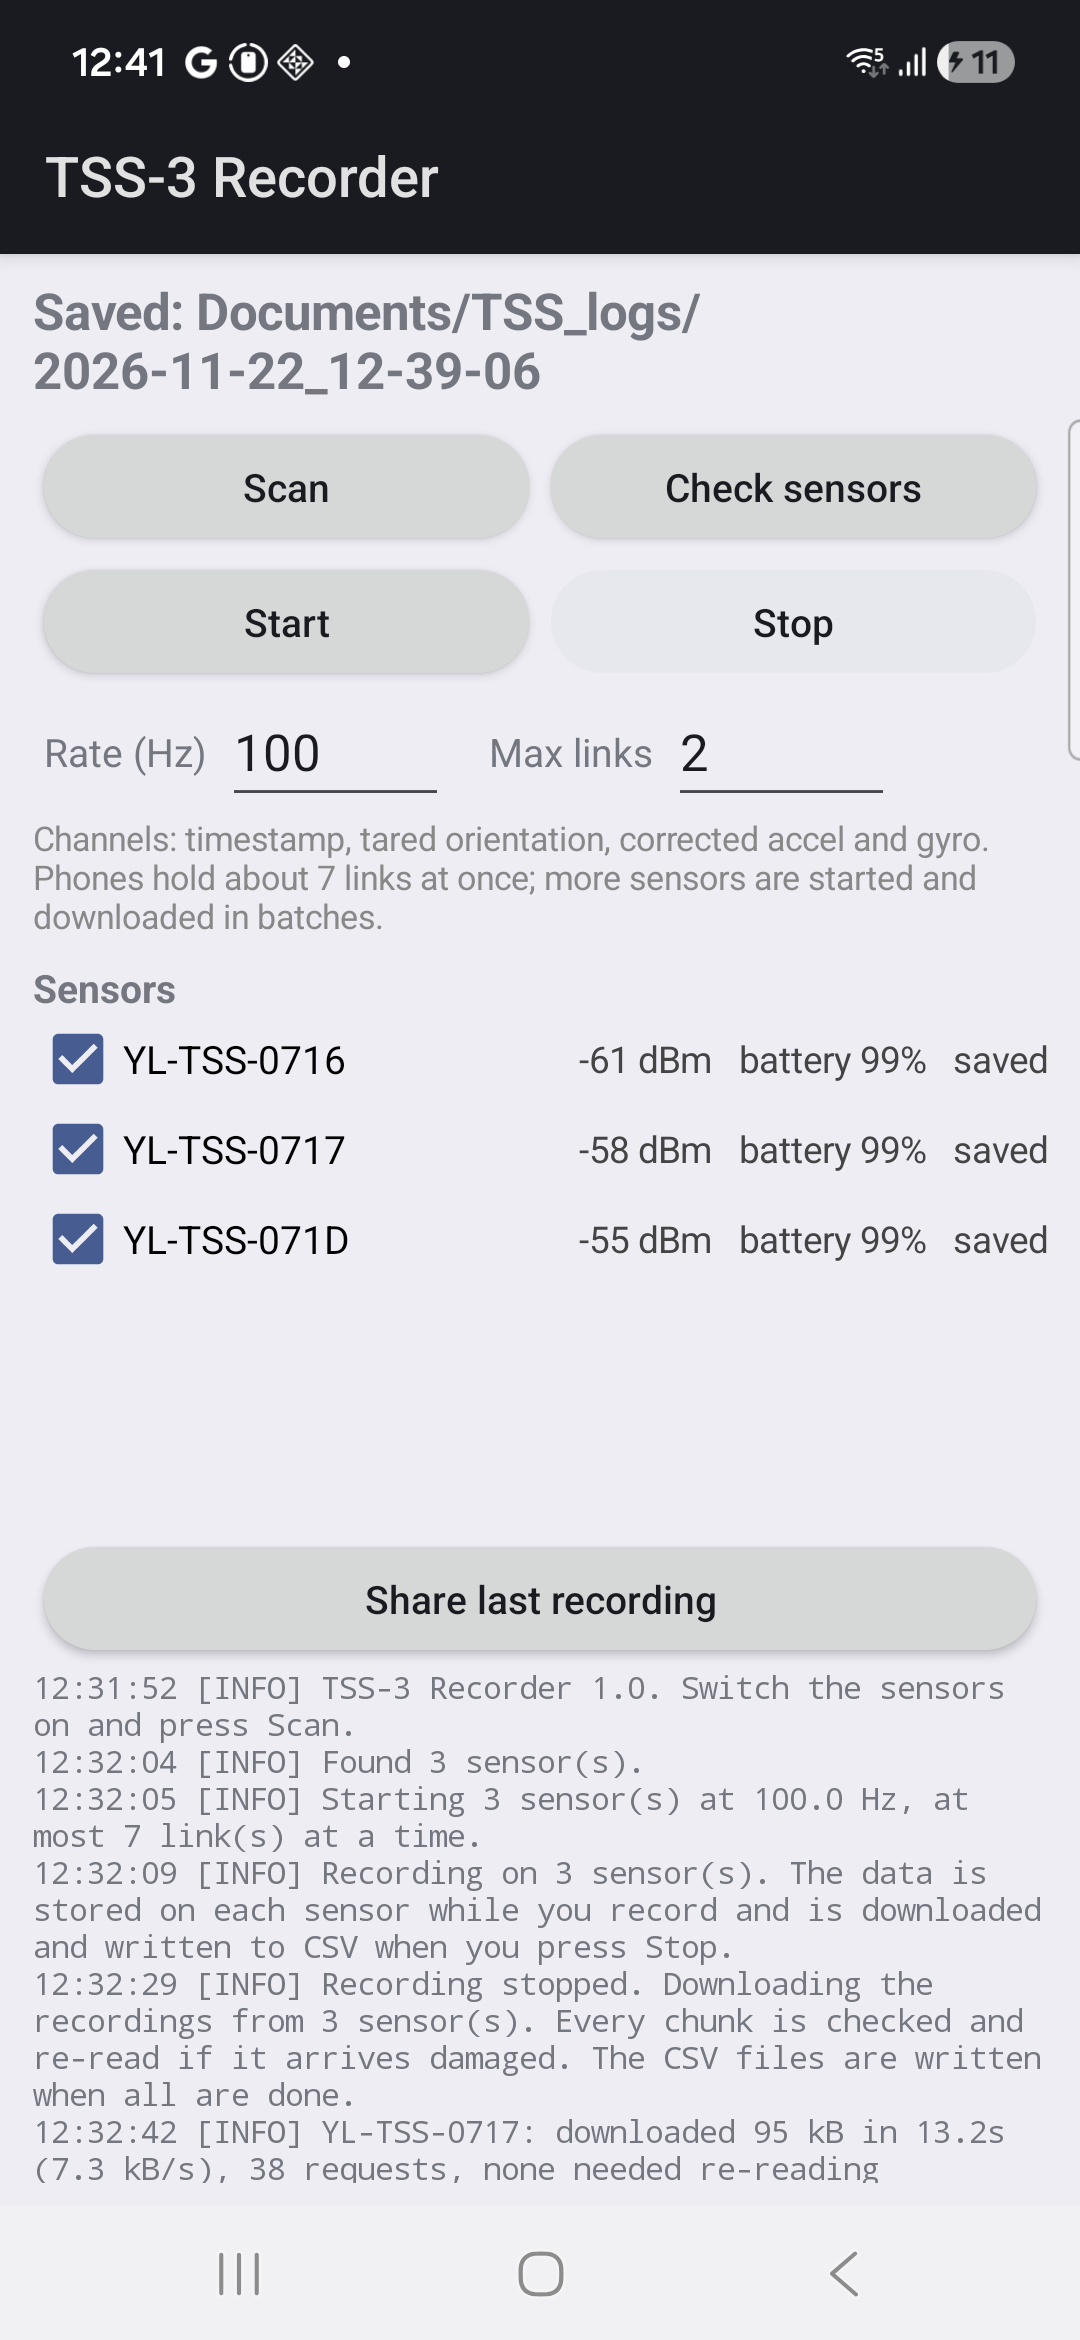
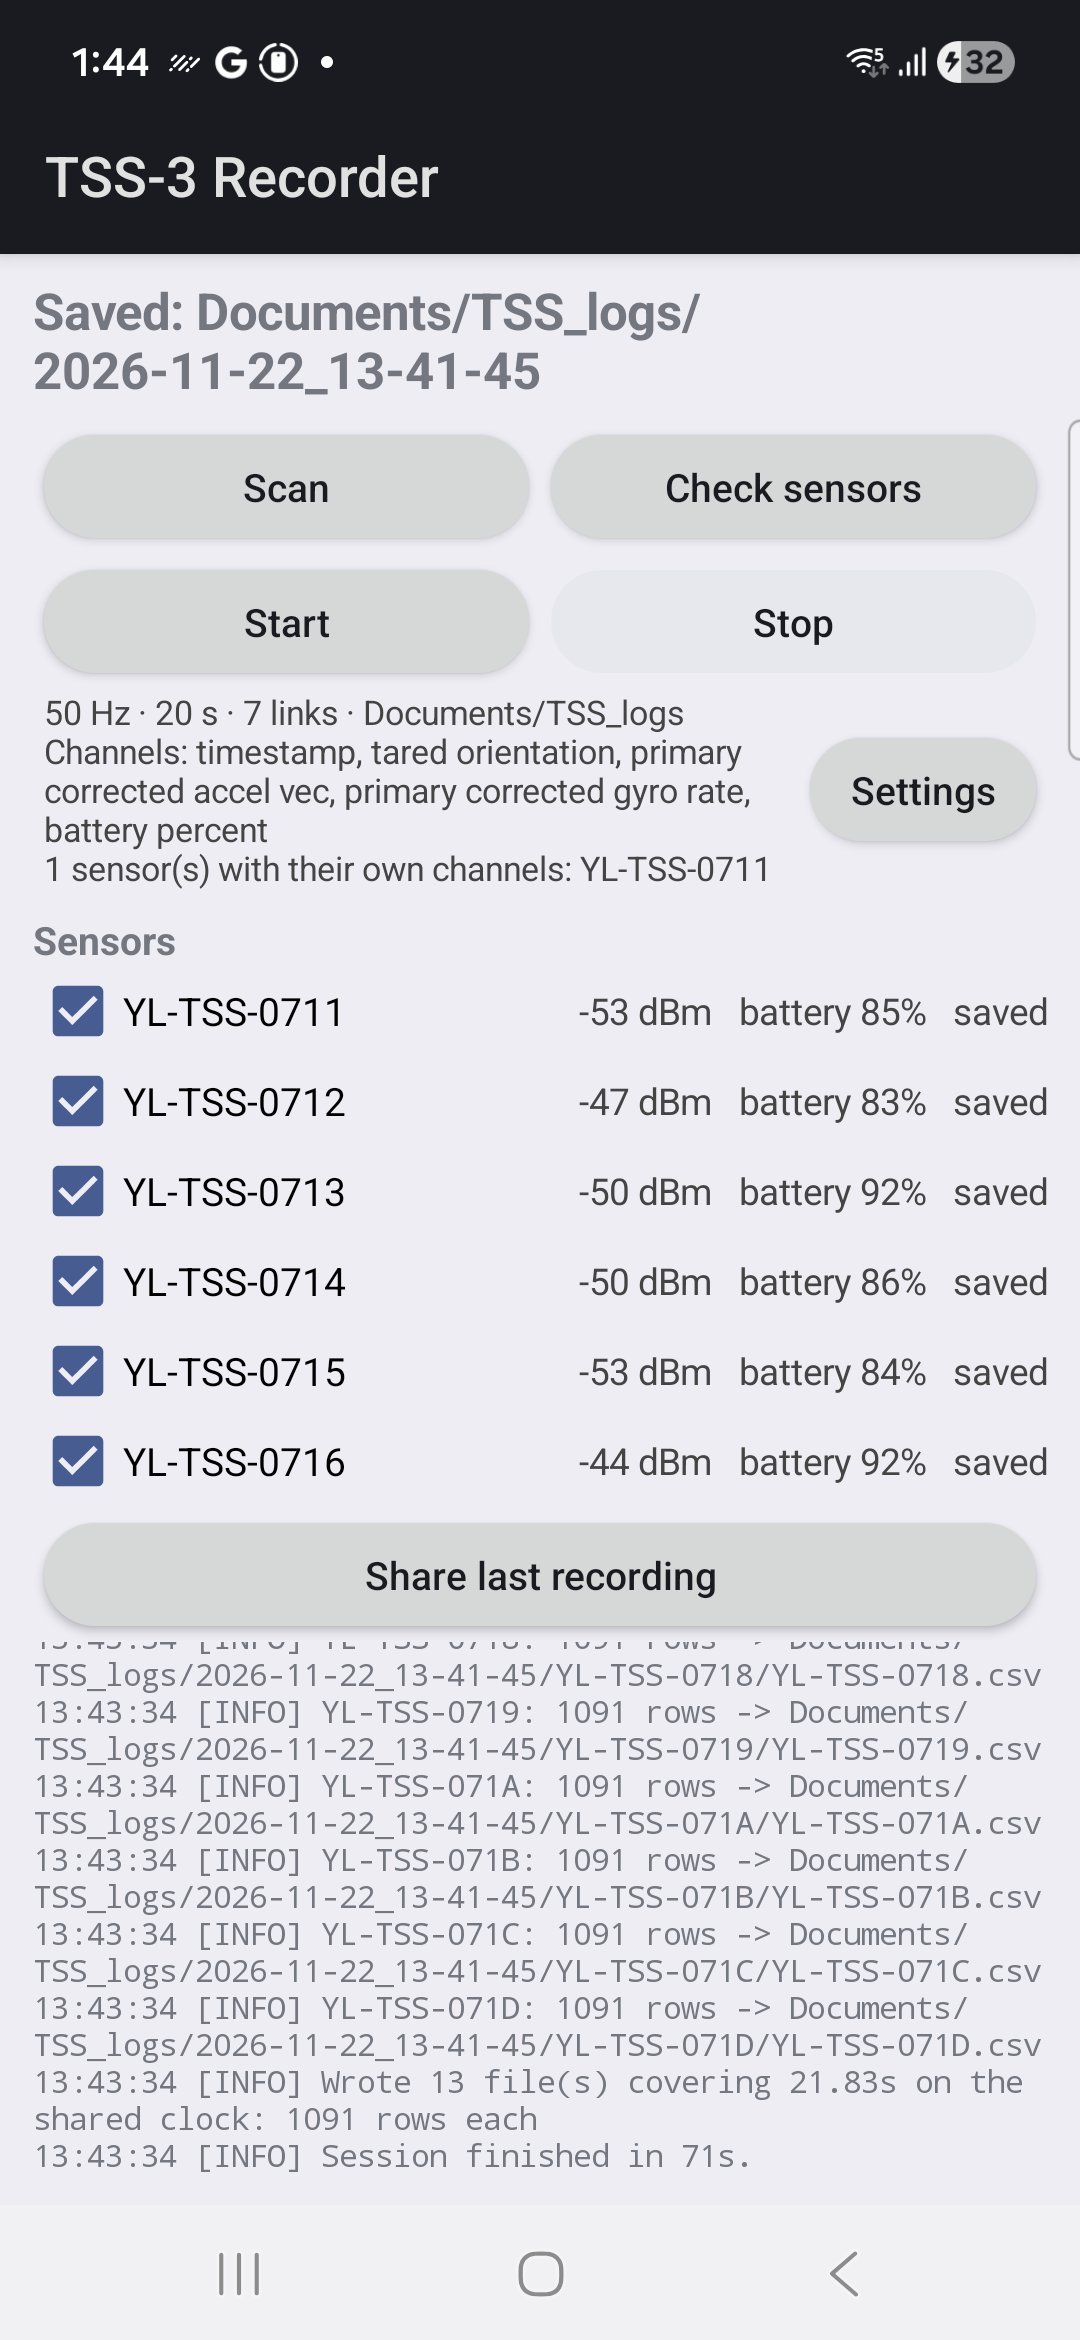
Version 1.1: recording settings like the desktop Log Config
Settings screen: rate, duration (auto stop), max links, save folder, channel
list for all sensors with sensor ids, per-sensor channel lists. New
screenshots and test results.

diff --git a/README.md b/README.md
@@ -7,13 +7,14 @@ together.
 
 ## Download
 
-**[⬇ Download TSS-3_Recorder.apk](https://github.com/covdetbaba/tss3-recorder-android/releases/latest/download/TSS-3_Recorder.apk)** (2.1 MB, version 1.0)
+**[⬇ Download TSS-3_Recorder.apk](https://github.com/covdetbaba/tss3-recorder-android/releases/latest/download/TSS-3_Recorder.apk)** (2.2 MB, version 1.1)
 
 Open this page on the phone and tap the link above. It always gives the newest version.
 
 Or scan this with the phone camera:
 
 <img src="docs/download-qr.png" width="220" alt="QR code for the download link">
+
 All versions: [Releases](https://github.com/covdetbaba/tss3-recorder-android/releases).
 
 ## Requirements
@@ -31,44 +32,61 @@ All versions: [Releases](https://github.com/covdetbaba/tss3-recorder-android/rel
 4. Open **TSS-3 Recorder** and allow **Nearby devices** when it asks. That permission is what
    lets it find the sensors.
 
-To update, download and install the new version over the old one. Your recordings stay.
+To update, download and install the new version over the old one. Your recordings and settings stay.
 
 ## Record
 
 1. Switch the sensors on near the phone and tap **Scan**. It takes about 8 seconds.
    Untick any sensor you do not want. An orange signal value (-88 dBm or weaker) marks a weak link.
-2. Optional: tap **Check sensors** to connect to each sensor once and show its battery.
-3. Tap **Start**. When the status line says **Recording**, all sensors are recording.
-4. Tap **Stop**. The status line shows **Downloading NN%** until the files are saved.
-   Keep the app open and the phone near the sensors until then. The screen stays on.
-5. Tap **Share last recording** to send the files by email, Drive, and so on.
+2. Optional: tap **Check sensors** to connect to each sensor once and show its battery. It also
+   reads which sensor ids each sensor has (for example accel 7 and 9) and warns if a chosen channel
+   is not supported by a sensor.
+3. Check the line under the buttons. It shows the rate, duration, links, save folder and channels.
+   Tap **Settings** to change them.
+4. Tap **Start**. When the status line says **Recording**, all sensors are recording.
+5. Tap **Stop**, or let the duration run out. The status line shows **Downloading NN%** until the
+   files are saved. Keep the app open and the phone near the sensors until then. The screen stays on.
+6. Tap **Share last recording** to send the files by email, Drive, and so on.
 
-<img src="docs/screenshot.png" width="300" alt="The app after a recording">
+<img src="docs/screenshot.png" width="300" alt="The main screen after a recording">
+
+## Settings
+
+**Settings** has the options of the desktop TSS-3 Suite's Log Config window. They are kept between uses.
+
+| Setting | Meaning |
+|---|---|
+| Rate (Hz) | 0.001 to 2000, the same for every sensor (default 100). |
+| Duration (s) | 0 records until you tap Stop. Any other value stops the recording by itself. |
+| Max links | How many sensors the phone talks to at once (default 7). With more sensors than this, the app starts them in groups and lets them go while they record, then reconnects each one at Stop. Lower it if a phone refuses connections. |
+| Save folder | The folder inside Documents (default `TSS_logs`). |
+| Channels for all sensors | The timestamp always comes first, then up to 15 channels, chosen from the same list as the desktop suite. Channels that read one particular sensor, such as *Corrected Accel Vec* or *Raw Gyro Rate*, ask for its id. *Check sensors* fills in the ids your sensors report. **Default channels** restores tared orientation, primary corrected accel and primary corrected gyro. **Apply to all sensors** removes every per-sensor list. |
+| Per-sensor channels | **Own list** gives one sensor its own channels. **Use general** puts it back on the list for all sensors. |
+
+The phone always records on the sensors, like the desktop suite's *Record on sensor* option, and
+always sets every sensor's clock to one shared time at Start, like *Synchronize Timestamp*. The
+desktop suite's header fields and Ascii/Binary choice only apply to live streaming, so the phone
+does not use them.
+
+<img src="docs/settings.png" width="300" alt="Settings"> <img src="docs/settings-per-sensor.png" width="300" alt="A sensor's own channel list">
 
 ## Files
 
-Recordings are saved in **My Files > Documents > TSS_logs**:
+Recordings are saved in **My Files > Documents > TSS_logs** (or the folder chosen in Settings):
 
 ```
 Documents/TSS_logs/<date_time>/<sensor>/<sensor>.csv
 Documents/TSS_logs/<date_time>/log.txt
 ```
 
-The CSV columns are `Time (s), time64, qx, qy, qz, qw, cAx, cAy, cAz, cGx, cGy, cGz`:
-time in seconds and in microseconds on the shared clock, then tared orientation (quaternion),
-primary corrected accelerometer and primary corrected gyroscope. These are the same files the
-fixed desktop TSS-3 Suite writes. Every sensor's clock is set to one shared time at Start, and
-all files are cut to the stretch every sensor recorded, so they have the same number of rows.
+Each CSV starts with `Time (s), time64`: time in seconds and in microseconds on the shared clock.
+One column per value of each chosen channel follows, named by the sensor. With the default
+channels these are `qx, qy, qz, qw, cAx, cAy, cAz, cGx, cGy, cGz` (tared orientation, primary
+corrected accelerometer, primary corrected gyroscope). These are the same files the fixed desktop
+TSS-3 Suite writes. All files are cut to the stretch every sensor recorded, so they have the same
+number of rows.
 
-## Settings on the screen
-
-- **Rate (Hz):** 100 by default.
-- **Max links:** how many sensors the phone talks to at once (default 7). Phones can only keep
-  a handful of Bluetooth connections open. With more sensors than this, the app starts them in
-  groups and lets them go while they record, then reconnects each one at Stop. Lower the number
-  if a phone refuses connections.
-
-The app puts each sensor's own log settings back afterwards. It saves nothing to the sensor's
+The app puts each sensor's own log settings back afterwards and saves nothing to the sensor's
 flash. Each recording also stays on its sensor (`/DATA`), as it does with the desktop suite.
 
 ## Measured
@@ -76,6 +94,7 @@ flash. Each recording also stays on its sensor (`/DATA`), as it does with the de
 | Test (Galaxy A26 5G) | Result |
 |---|---|
 | 13 sensors, 60 s at 100 Hz, 7 links at a time | 13 files of 6,200 rows each, starts and ends within 10 ms, no missing samples |
+| 13 sensors, 50 Hz, 20 s duration, 4 channels for all and one sensor with its own list (orientation + corrected accel id 9) | stopped by itself at 20 s; 13 files of 1,091 rows each, within 17 ms, no missing samples |
 | 3 sensors, 60 s, 2 links at a time (groups) | 3 files of 6,230 rows each, within 4 ms |
 | Download speed | up to 11 kB/s per sensor; 13 sensors × 60 s saved 3 minutes after Stop |
 
@@ -85,15 +104,16 @@ flash. Each recording also stays on its sensor (`/DATA`), as it does with the de
   permission (Settings > Apps > TSS-3 Recorder > Permissions). Make sure the sensors are switched on.
 - **"did not connect on the first try".** Android sometimes refuses a connection (status 133).
   The app retries up to 6 times on its own, and this message is only information.
-- **A sensor is left out at Start.** It could not be reached. Charge it, bring it closer, or
-  lower *Max links*. The other sensors still record.
+- **A sensor is left out at Start.** It could not be reached, or it refused the chosen channels.
+  Charge it, bring it closer, lower *Max links*, or run *Check sensors* to see which channels it
+  cannot record. The other sensors still record.
 - **Slow download.** The sensor with the weakest signal sets the pace. Once you tap Stop, the data
   is already on the sensors, so bringing them closer to the phone speeds up the download.
 
 ## Verify the file (optional)
 
-SHA-256 of `TSS-3_Recorder.apk` 1.0:
[1 lines of base64/hex data omitted]
+SHA-256 of `TSS-3_Recorder.apk` 1.1:
[1 lines of base64/hex data omitted]
 
 ---
 
